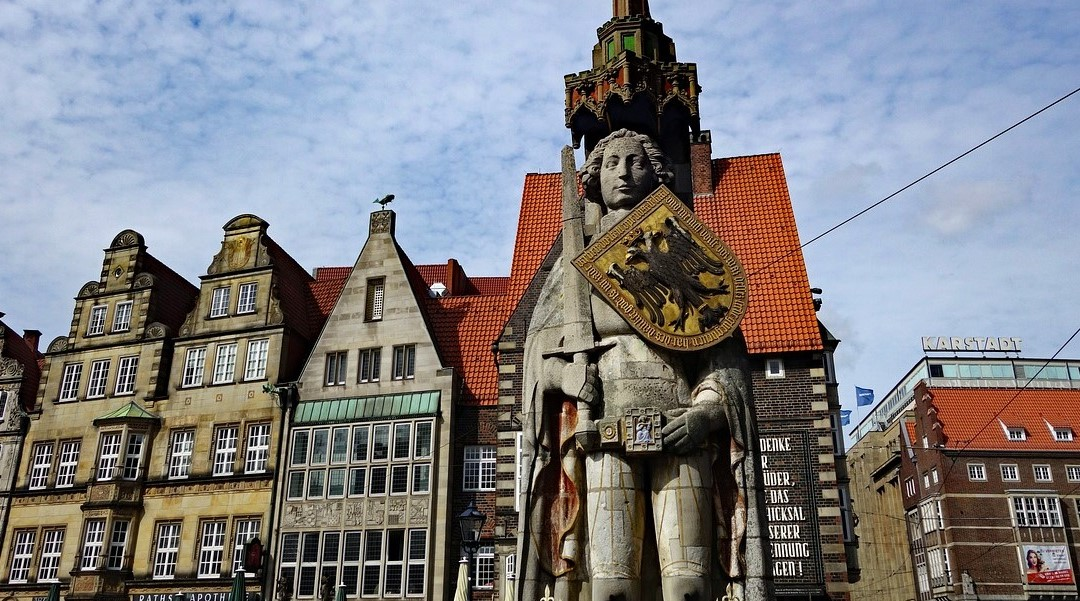
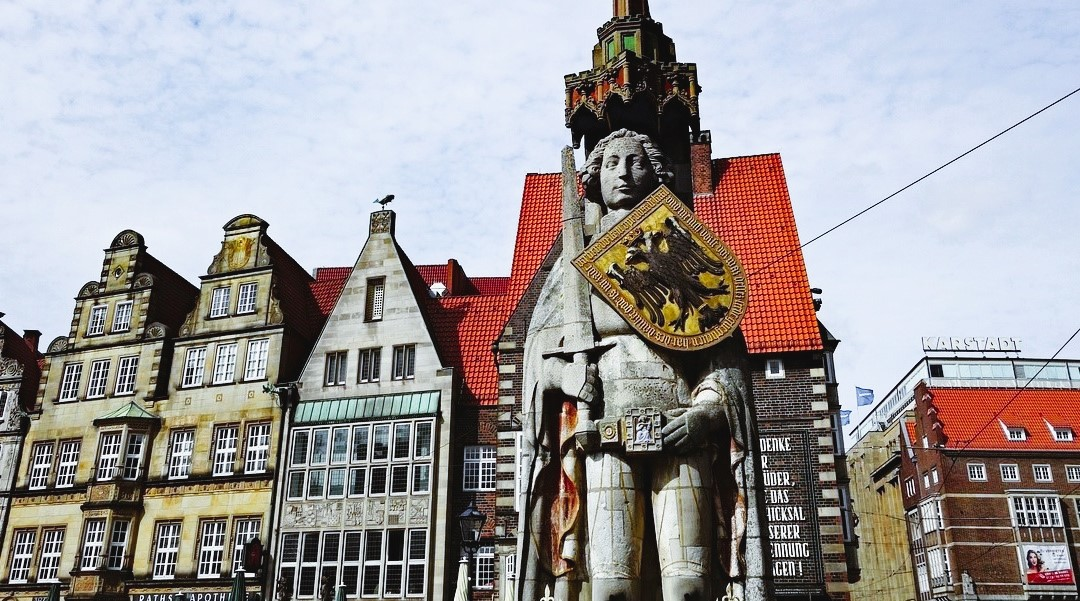
Я приглушил цвета

diff --git a/src/index.html b/src/index.html
@@ -24,6 +24,7 @@
       <a href="https://www.dwd.de/DE/Home/home_node.html" target="_blank">КАРТА ПОГОДЫ</a>
       <a href="search.html">ПОИСК</a>
     </nav>
+    
   </header>
 
   <main>
@@ -78,7 +79,7 @@
         </article>
         <article class="grid-gallery__card">
           <a href="schwerin.html" target="_blank">
-            <img src="images/schverin.jpg" alt="" style="width: 100%; height: auto;">
+            <img src="images/schwerin-castle-557368_1280.jpg" alt="" style="width: 100%; height: auto;">
           </a>
           <h4 class="city" title="text-center"
           data-info="Город озёр и сказочных замков! Прогуляйся вдоль водоёмов, открой для себя историческую архитектуру и почувствуй атмосферу уюта и спокойствия. 🏰">
@@ -89,7 +90,7 @@
         </article>
         <article class="grid-gallery__card">
           <a href="dresden.html" target="_blank">
-            <img src="images/dresden.png" alt="" style="width: 100%; height: auto;">
+            <img src="images/dresden.jpg" alt="" style="width: 100%; height: auto;">
           </a>
           <h4 class="city" title="text-center"
           data-info="Город искусства и величия! Наслаждайся потрясающими видами на Эльбу, исследуй старинные дворцы и музеи. каждый день – как путешествие во времени! 🎨">
@@ -304,8 +305,6 @@
     </div>
 </footer>
 
-  </footer>
-
   <script src="https://cdn.jsdelivr.net/npm/bootstrap@5.3.0/dist/js/bootstrap.bundle.min.js"></script>
   <script>
     function updateDateTime() {
@@ -342,5 +341,4 @@
     updateDateTime();
   </script>
 </body>
-
 </html>

diff --git a/src/airports.html b/src/airports.html
@@ -11,7 +11,7 @@
     <header class="bg-light py-3">
         <div class="main_web">
             <nav class="nav-to-main">
-                <a href="index.html">НА ГЛАВНУЮ </a>
+                <a href="index.html">ГЛАВНАЯ</a>
             </nav>
         </div>
     </header>
